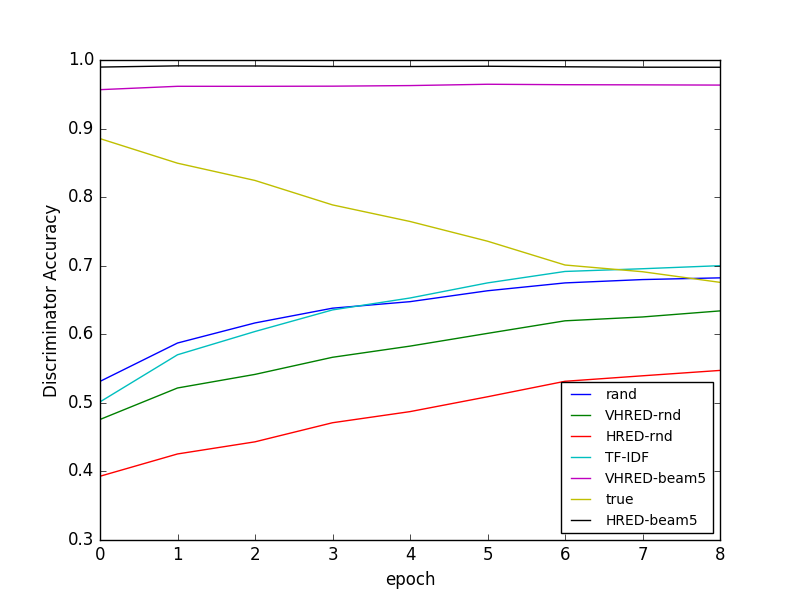
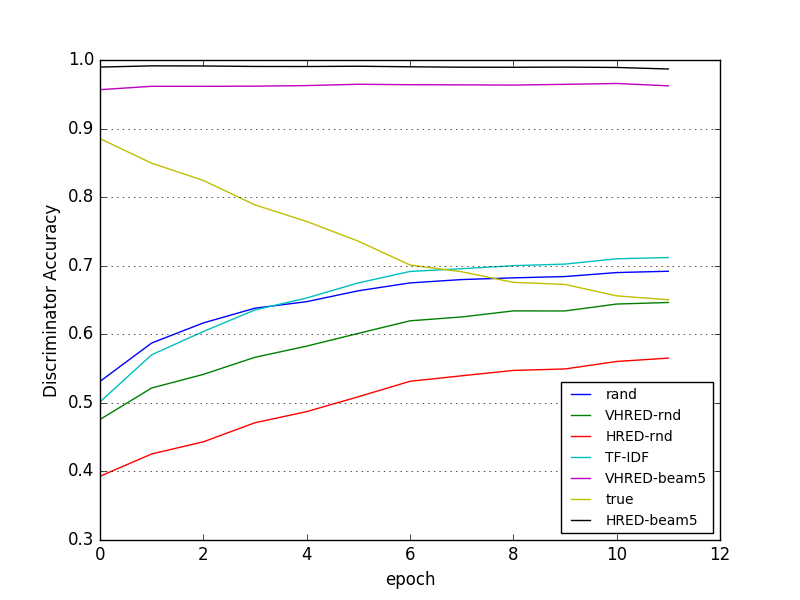
added code to resume training from saved model

diff --git a/main.py b/main.py
@@ -20,6 +20,7 @@ class Model:
     def __init__(self,
                  data,
                  W,
+                 save_path,
                  save_prefix,
                  max_seqlen=160,
                  batch_size=50,
@@ -48,6 +49,7 @@ class Model:
         vocab_size = W.shape[0]
         embedding_size = W.shape[1]
         self.embeddings = theano.shared(W, name='embeddings', borrow=True)
+        self.save_path = save_path
         self.save_prefix = save_prefix
         self.max_seqlen = max_seqlen
         self.batch_size = batch_size
@@ -401,7 +403,7 @@ class Model:
         """
         Measure the accuracy of the current Discriminator on each dialogue model.
         :param scope: either "train", "val" or "test" sets.
-        :return: output the accuracy of the discriminator for each model.
+        :return: array of discriminator accuracies for each model.
         """
         assert scope in ["train", "val", "test"]
 
@@ -423,12 +425,14 @@ class Model:
                     self.data_by_models[scope][model_name]['r'].append(self.data[scope]['r'][idx])
                     self.data_by_models[scope][model_name]['y'].append(self.data[scope]['y'][idx])
 
+        performances = []
         for model_name, data in self.data_by_models[scope].iteritems():
             print "evaluating", model_name
             n_batches = len(data['y']) // self.batch_size
             # Compute performance:
             losses = [self.compute_loss(data, i) for i in xrange(n_batches)]  # number of wrong predictions for each batch
             perf = 1 - np.sum(losses) / len(data['y'])  # 1 - total number of errors / total number of examples
+            performances.append(perf)
             print '%s_perf: %f%%' % (scope, perf * 100)
             self.save_performance(scope, model_name, perf)  # save performance of the discriminator for that model under this scope
 
@@ -438,13 +442,11 @@ class Model:
         Compute performances on test set
         :return: None
         """
-        n_test_batches = len(self.data['test']['y']) // self.batch_size
         # Compute TEST performance:
-        test_losses = [self.compute_loss(self.data['test'], i) for i in xrange(n_test_batches)]  # number of wrong prediction for each batch
-        test_perf = 1 - np.sum(test_losses) / len(self.data['test']['y'])  # 1 - total number of errors / total number of examples
-        print 'test_perf: %f%%' % (test_perf * 100)
         # evaluation for each model id in data['test']['id']
-        self.compute_and_save_performance_models("test")
+        test_perfs = self.compute_and_save_performance_models("test")
+        test_perf = np.average(test_perfs)
+        print 'test_perf: %f%%' % (test_perf * 100)
 
     def plot_score_per_length(self, scope='train'):
         """
@@ -492,12 +494,13 @@ class Model:
             elif 'c_tfidf' in model_name: model_name = 'TF-IDF'
             plt.plot(range(len(accuracies)), accuracies, colors[i], label=model_name)
         plt.legend(loc='lower right', fontsize='small')
+        plt.grid(True, axis='y')
+        plt.axes()
         plt.xlabel('epoch')
         plt.ylabel('Discriminator Accuracy')
         plt.savefig('plot_%s_accuracies.png' % scope)
         plt.close(fig)
         print "saved plot."
-
 
     def train(self, n_epochs=100, patience=10, verbose=True):
         """
@@ -509,6 +512,42 @@ class Model:
         best_val_perf = 0   # keep track of best validation score
         test_perf = 0       # keep track of current test score
         test_probas = None  # keep track of current best probabilities
+
+        # if we resumed training, reset variables to their previous value:
+        if 'train' in self.timings and 'val' in self.timings and 'test' in self.timings\
+                and len(self.timings['train']) > 0 and len(self.timings['val']) > 0 and len(self.timings['test']) > 0:
+            assert 'true' in self.timings['train']
+            # Reset epoch:
+            epoch = len(self.timings['train']['true'])
+            print "reset epoch:", epoch
+
+            # Reset best_val_perf:
+            average_val_perf = []  # average validation performance of all models over each epochs
+            for model, val_perfs in self.timings['val'].iteritems():
+                if len(average_val_perf) == 0:
+                    average_val_perf = val_perfs
+                else:
+                    assert len(average_val_perf) == len(val_perfs)
+                    # add the performance of that model over all time steps i
+                    average_val_perf = [average_val_perf[i]+val_perfs[i] for i in range(len(val_perfs))]
+            # make it an average of all models over all time steps i:
+            average_val_perf = [average_val_perf[i]/len(self.timings['val']) for i in range(len(average_val_perf))]
+            best_val_perf = np.max(average_val_perf)
+            print "reset best_val_perf:", best_val_perf
+
+            # Reset test_perf:
+            average_test_perf = []  # average test performance of all models over each epochs
+            for model, test_perfs in self.timings['test'].iteritems():
+                if len(average_test_perf) == 0:
+                    average_test_perf = test_perfs
+                else:
+                    assert len(average_test_perf) == len(test_perfs)
+                    # add the performance of that model over all time steps i
+                    average_test_perf = [average_test_perf[i]+test_perfs[i] for i in range(len(test_perfs))]
+            # make it an average of all models over all time steps i:
+            average_test_perf = [average_test_perf[i]/len(self.timings['test']) for i in range(len(average_test_perf))]
+            test_perf = average_test_perf[-1]
+            print "reset test_perf:", test_perf
 
         n_train_batches = len(self.data['train']['y']) // self.batch_size
         n_val_batches = len(self.data['val']['y']) // self.batch_size
@@ -544,55 +583,60 @@ class Model:
             ###
             # Compute TRAIN performance:
             ###
-            train_losses = [self.compute_loss(self.data['train'], i) for i in xrange(n_train_batches)]  # number of wrong predictions for each batch
-            train_perf = 1 - np.sum(train_losses) / len(self.data['train']['y'])  # 1 - total number of errors / total number of examples
-            print "epoch %i: train perf %f%%" % (epoch, train_perf*100)
+            print "\nEvaluating Training set:"
             # evaluation for each model id in data['train']['id']
-            self.compute_and_save_performance_models("train")
+            train_perfs = self.compute_and_save_performance_models("train")
+            train_perf = np.average(train_perfs)
+            print "epoch %i: train perf %f%%" % (epoch, train_perf*100)
 
             ###
             # Compute VALIDATION performance:
             ###
-            val_losses = [self.compute_loss(self.data['val'], i) for i in xrange(n_val_batches)]  # number of wrong predictions for each batch
-            val_perf = 1 - np.sum(val_losses) / len(self.data['val']['y'])  # 1 - total number of errors / total number of examples
-            print 'epoch %i: val_perf %f%%' % (epoch, val_perf*100)
+            print "\nEvaluating Validation set:"
             # evaluation for each model id in data['val']['id']
-            #self.compute_and_save_performance_models("val")
+            val_perfs = self.compute_and_save_performance_models("val")
+            val_perf = np.average(val_perfs)
+            print 'epoch %i: val_perf %f%%' % (epoch, val_perf*100)
 
             ###
             # If doing better on validation set, measure each model test performance and same model parameters!
             ###
             if val_perf > best_val_perf:
-                print "\nImproved validation score!"
+                print "Improved average validation score!"
                 best_val_perf = val_perf
                 patience = self.patience  # reset patience to initial value
 
                 # Compute TEST performance:
-                test_losses = [self.compute_loss(self.data['test'], i) for i in xrange(n_test_batches)]  # number of wrong predictions for each batch
-                test_probas = [self.compute_probas(self.data['test'], i) for i in xrange(n_test_batches)]  # probability of being a true response for each batch
-                test_perf = 1 - np.sum(test_losses) / len(self.data['test']['y'])  # 1 - total number of errors / total number of examples
-                print 'epoch %i, test_perf %f%%' % (epoch, test_perf*100)
+                print "\nEvaluating Test set:"
                 # evaluation for each model id in data['test']['id']
-                self.compute_and_save_performance_models("test")
+                test_perfs = self.compute_and_save_performance_models("test")
+                test_perf = np.average(test_perfs)
+                print 'epoch %i, test_perf %f%%' % (epoch, test_perf*100)
+                # test_probas = [self.compute_probas(self.data['test'], i) for i in xrange(n_test_batches)]  # probability of being a true response for each batch
 
                 # Save current best model parameters.
                 print "\nSaving current model parameters..."
-                with open('%s_best_weights.pkl' % self.save_prefix, 'wb') as handle:
+                with open('%s/%s_best_weights.pkl' % (self.save_path, self.save_prefix), 'wb') as handle:
                     params = [np.asarray(p.eval()) for p in lasagne.layers.get_all_params(self.l_out)]
                     cPickle.dump(params, handle, protocol=cPickle.HIGHEST_PROTOCOL)
-                with open('%s_best_embed.pkl' % self.save_prefix, 'wb') as handle:
+                with open('%s/%s_best_embed.pkl' % (self.save_path, self.save_prefix), 'wb') as handle:
                     cPickle.dump(self.embeddings.eval(), handle, protocol=cPickle.HIGHEST_PROTOCOL)
-                with open('%s_best_M.pkl' % self.save_prefix, 'wb') as handle:
+                with open('%s/%s_best_M.pkl' % (self.save_path, self.save_prefix), 'wb') as handle:
                     cPickle.dump(self.M.eval(), handle, protocol=cPickle.HIGHEST_PROTOCOL)
                 # Save performances.
-                with open('%s_timings.pkl' % self.save_prefix, 'wb') as handle:
+                print "\nSaving performances..."
+                with open('%s/%s_timings.pkl' % (self.save_path, self.save_prefix), 'wb') as handle:
                     cPickle.dump(self.timings, handle, protocol=cPickle.HIGHEST_PROTOCOL)
-                print "Saved.\n"
+                # Save model.
+                print "\nSaving model..."
+                with open("%s/%s_model.pkl" % (self.save_path, self.save_prefix), 'wb') as handle:
+                    cPickle.dump(self, handle, protocol=cPickle.HIGHEST_PROTOCOL)
+                print "Saved."
             else:
                 patience -= 1  # decrease patience
                 print "\nNo improvement! patience:", patience
 
-        return test_perf, test_probas
+        return test_perf  # , test_probas
 
     # TODO: never used!
     def compute_recall_ks(self, probas):
@@ -675,18 +719,23 @@ def main():
     parser.add_argument('--emb_penalty', type=float, default=0.001, help='Embedding penalty')
     parser.add_argument('--act_penalty', type=float, default=500, help='Activation penalty')
 
-    # Saving parameters:
-    parser.add_argument('--save_model', type='bool', default=False, help='Whether to save the model')
-    parser.add_argument('--save_prefix', type=str, default='twitter', help='prefix for all saved file names')
-
-    # Loading parameters:
-    parser.add_argument('--input_dir', type=str, default='.', help='Input dir')
+    # Loading data parameters:
+    parser.add_argument('--data_path', type=str, default='.', help='Path of the data to load')
     parser.add_argument('--dataset_fname', type=str, default='dataset.pkl', help='Dataset filename')
-    parser.add_argument('--W_fname', type=str, default='W.pkl', help='W filename')
+    parser.add_argument('--W_fname', type=str, default='W.pkl', help='Word embeddings filename')
     parser.add_argument('--train_examples', type=int, required=False, help='Number of training examples to keep')
     parser.add_argument('--sort_by_len', type='bool', default=False, help='Whether to sort examples by context length')
 
+    # Saving model parameters:
+    parser.add_argument('--save_path', type=str, default='.', help='Path where to save model')
+    parser.add_argument('--save_prefix', type=str, default='twitter', help='prefix for all saved file names')
+
+    # Loading model parameters:
+    parser.add_argument('--load_path', type=str, default='.', help='Path to load the model from')
+    parser.add_argument('--load_prefix', type=str, default='twitter', help='Prefix for all the model files to load')
+
     # Script parameters:
+    parser.add_argument('--resume', type='bool', default=False, help='Flag to decide if we should resume training from a pre-trained model or not.')
     parser.add_argument('--seed', type=int, default=4213, help='Random seed')
     parser.add_argument('--test', type='bool', default=False, help='Use the presaved model.')
 
@@ -696,9 +745,9 @@ def main():
 
     print "\nLoading data..."
     # data sets are dictionaries containing contexts, responses, flag
-    train_data, val_data, test_data = cPickle.load(open('%s/%s' % (args.input_dir, args.dataset_fname), 'rb'))
+    train_data, val_data, test_data = cPickle.load(open('%s/%s' % (args.data_path, args.dataset_fname), 'rb'))
     # W is the word embedding matrix and word2idx is a dictionary.
-    W, word2idx, idx2word = cPickle.load(open('%s/%s' % (args.input_dir, args.W_fname), 'rb'))
+    W, word2idx, idx2word = cPickle.load(open('%s/%s' % (args.data_path, args.W_fname), 'rb'))
     print "W.shape:", W.shape  # (5092,300) = word embedding for each vocab word
 
     print "Number of training examples: %d" % (len(train_data['c']))
@@ -713,89 +762,68 @@ def main():
         train_data['y'] = train_data['y'][:num_train_examples]
         print('New number of training examples: %d' % (len(train_data['c'])))
 
+    data = {'train': train_data, 'val': val_data, 'test': test_data}
     print("data loaded!")
-
-    data = { 'train' : train_data, 'val': val_data, 'test': test_data }
 
     # sort the training data by context length
     if args.sort_by_len:
         sort_by_len(data['train'])
 
-    print "\nCreating model..."
-    model = Model(
-        data=data,
-        W=W.astype(theano.config.floatX),
-        save_prefix=args.save_prefix,
-        max_seqlen=args.max_seqlen,                         # default 160
-        batch_size=args.batch_size,                         # default 256
-        # Network architecture:
-        encoder=args.encoder,                               # default RNN
-        hidden_size=args.hidden_size,                       # default 200
-        n_recurrent_layers=args.n_recurrent_layers,         # default 1
-        is_bidirectional=args.is_bidirectional,             # default False
-        # Learning parameters:
-        patience=args.patience,                             # default 10
-        optimizer=args.optimizer,                           # default ADAM
-        lr=args.lr,                                         # default 0.001
-        lr_decay=args.lr_decay,                             # default 0.95
-        fine_tune_W=args.fine_tune_W,                       # default False
-        fine_tune_M=args.fine_tune_M,                       # default False
-        # NTN parameters:
-        use_ntn=args.use_ntn,                               # default False
-        k=args.k,                                           # default 4
-        # Regularization parameters:
-        penalize_emb_norm=args.penalize_emb_norm,           # default False
-        penalize_emb_drift=args.penalize_emb_drift,         # default False
-        emb_penalty=args.emb_penalty,                       # default 0.001
-        penalize_activations=args.penalize_activations,     # default False
-        act_penalty=args.act_penalty                        # default 500
-    )
-    print "Model created."
+    if args.resume or args.test:
+        print "\nLoading model..."
+        with open('%s/%s_model.pkl' % (args.load_path, args.load_prefix), 'rb') as handle:
+            model = cPickle.load(handle)
+            model.data = data  # in cases when we want to test or resume with new data
+        print "Model loaded."
+    else:
+        print "\nCreating model..."
+        model = Model(
+            data=data,
+            W=W.astype(theano.config.floatX),
+            save_path=args.save_path,
+            save_prefix=args.save_prefix,
+            max_seqlen=args.max_seqlen,                         # default 160
+            batch_size=args.batch_size,                         # default 256
+            # Network architecture:
+            encoder=args.encoder,                               # default RNN
+            hidden_size=args.hidden_size,                       # default 200
+            n_recurrent_layers=args.n_recurrent_layers,         # default 1
+            is_bidirectional=args.is_bidirectional,             # default False
+            # Learning parameters:
+            patience=args.patience,                             # default 10
+            optimizer=args.optimizer,                           # default ADAM
+            lr=args.lr,                                         # default 0.001
+            lr_decay=args.lr_decay,                             # default 0.95
+            fine_tune_W=args.fine_tune_W,                       # default False
+            fine_tune_M=args.fine_tune_M,                       # default False
+            # NTN parameters:
+            use_ntn=args.use_ntn,                               # default False
+            k=args.k,                                           # default 4
+            # Regularization parameters:
+            penalize_emb_norm=args.penalize_emb_norm,           # default False
+            penalize_emb_drift=args.penalize_emb_drift,         # default False
+            emb_penalty=args.emb_penalty,                       # default 0.001
+            penalize_activations=args.penalize_activations,     # default False
+            act_penalty=args.act_penalty                        # default 500
+        )
+        print "Model created."
 
     # If testing a pre-saved model
     if args.test:
-        "\nWill test the model:"
-        # load parameter values into the network
-        print "loading trained weights..."
-        with open('%s_best_weights.pkl' % args.save_prefix, 'rb') as handle:
-            params = cPickle.load(handle)
-            lasagne.layers.set_all_param_values(model.l_out, params)
-        # load the M matrix: (from c.M.r)
-        print "loading M matrix..."
-        with open('%s_best_M.pkl' % args.save_prefix, 'rb') as handle:
-            M = cPickle.load(handle)
-            model.M.set_value(M)
-        # load the word embeddings: W matrix
-        print "loading W matrix..."
-        with open('%s_best_embed.pkl' % args.save_prefix, 'rb') as handle:
-            em = cPickle.load(handle)
-            model.embeddings.set_value(em)
-        # load timings:
-        print "loading timings..."
-        with open('%s_timings.pkl' % args.save_prefix, 'rb') as handle:
-            timings = cPickle.load(handle)
-            model.timings = timings
-
+        "\nTesting the model..."
         # run the test function
-        # print "Testing model..."
         # model.test()
         # model.plot_score_per_length('test')
         model.plot_learning_curves('train')
-        model.plot_learning_curves('test')
+        model.plot_learning_curves('val')
 
     # If training the model
     else:
         "\nTraining model..."
-        test_perf, test_probas = model.train(n_epochs=args.n_epochs, patience=args.patience, verbose=False)
+        test_perf = model.train(n_epochs=args.n_epochs, patience=args.patience, verbose=False)
         "Model trained."
         print "test_perfs =", test_perf
-        print "test_probas =", test_probas
-
-        if args.save_model:
-            print "\nSaving model..."
-            cPickle.dump(model, open("%s_model.pkl" % args.save_prefix, 'wb'))
-            cPickle.dump(test_probas, open('%s_probas.pkl' % args.save_prefix, 'wb'))
-            print "Model saved."
+        # print "test_probas =", test_probas
 
 if __name__ == '__main__':
   main()

diff --git a/twitter_dataset/combine_generated_data.py b/twitter_dataset/combine_generated_data.py
@@ -53,9 +53,10 @@ def process_dialogues(dialogues):
 
 
 def print_k(list, idx_2_str=None, twitter_bpe=None, k=10):
-    start = random.randint(0, len(list)-k-1)
+    # start = random.randint(0, len(list)-k-1)
+    start = 0
     if idx_2_str and twitter_bpe:
-        top_list = map(lambda e: indices2string(e, idx_2_str, twitter_bpe), list)[start:start+k]
+        top_list = map(lambda e : indices2string(e, idx_2_str, twitter_bpe), list[start:start+k])
     else:
         top_list = list[start:start+k]
     for e in top_list:
